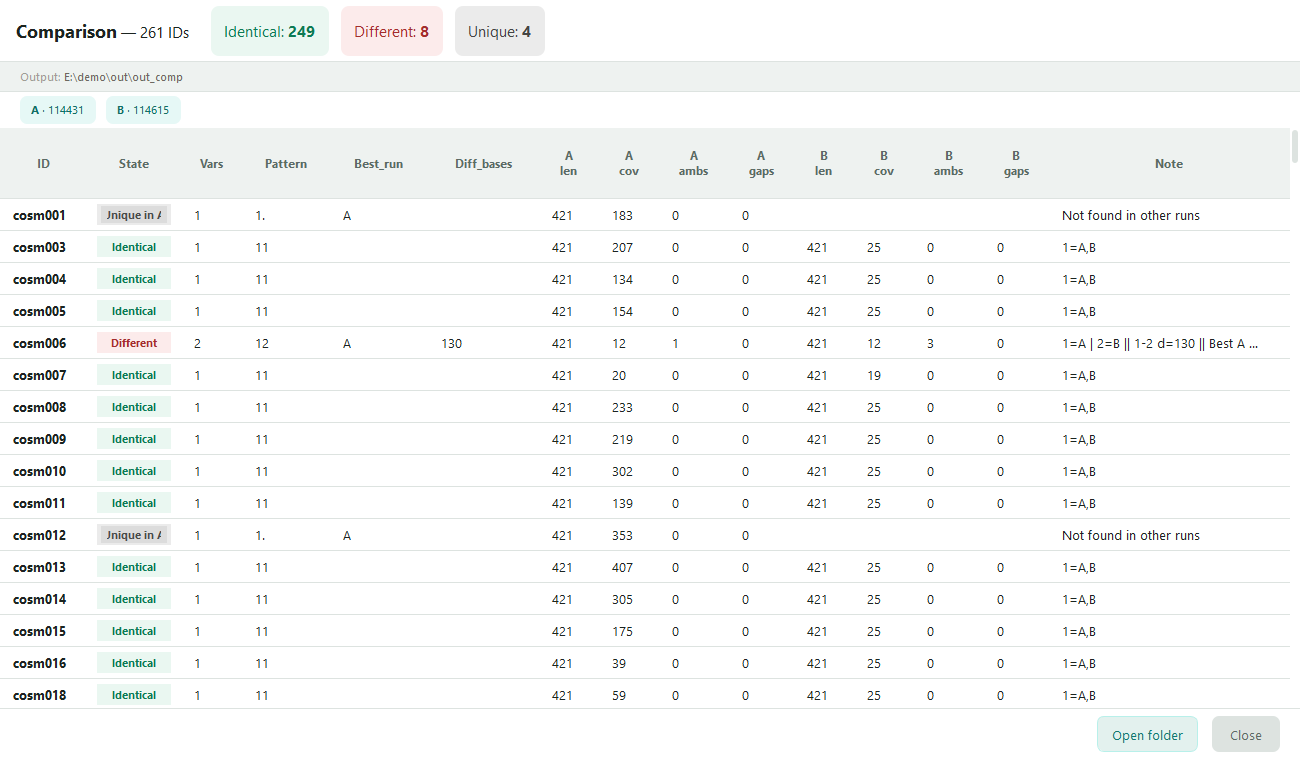
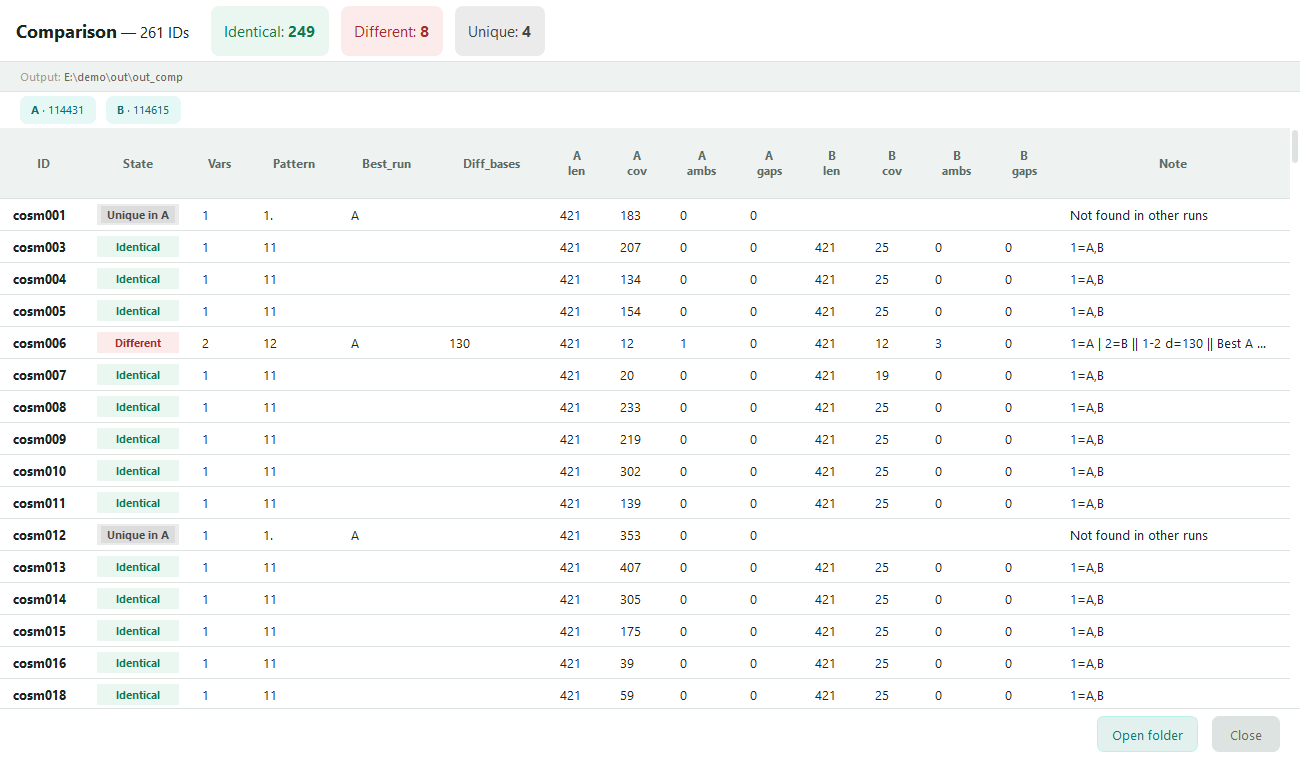
Fix clipped 'Unique in A' pill in Compare results; drop Best Sequence mention from BLAST description

diff --git a/suite_ui.py b/suite_ui.py
@@ -500,7 +500,20 @@ def restyle_compare_results(dlg: QtWidgets.QWidget):
             w.setText(w.text().replace("color:white;", "")
                       .replace("color:#9AAFCC;", "font-weight:400;"))
             w.setStyleSheet("color: #1A1A18; background: transparent;")
+    _fit_state_column(dlg)
     set_dark_titlebar(dlg, current_theme() == "dark")
+
+
+def _fit_state_column(dlg: QtWidgets.QWidget):
+    """The results table sizes its columns from the cell text, but the State
+    column holds pill widgets with extra padding, so a long state such as
+    "Unique in A" came out clipped. Widen the column to the widest pill."""
+    for table in dlg.findChildren(QtWidgets.QTableWidget):
+        for col in range(table.columnCount()):
+            widths = [table.cellWidget(r, col).sizeHint().width() + 8
+                      for r in range(table.rowCount()) if table.cellWidget(r, col)]
+            if widths and max(widths) > table.columnWidth(col):
+                table.setColumnWidth(col, max(widths))
 
 
 def install_compare_results_hook(cls):

diff --git a/barcodeSuite.py b/barcodeSuite.py
@@ -178,6 +178,9 @@ class MainWindow(QtWidgets.QMainWindow):
         btn = self._panel_blast._send_best_btn
         btn.hide()
         btn.show = lambda: None
+        desc = self._panel_blast._lbl_desc
+        desc.setText(desc.text().replace(
+            ", ready to use as a pair in Best Sequence.", "."))
 
     # ── Navigation / appearance ──────────────────────────────────────────────
 
